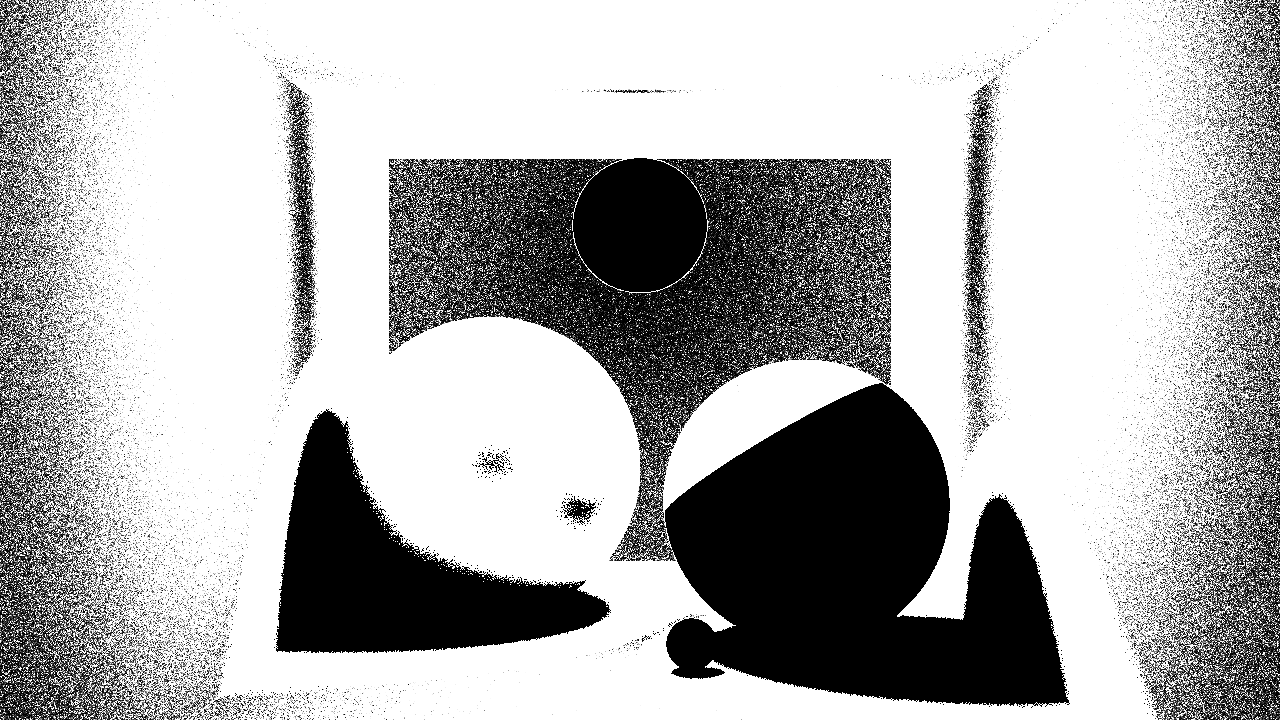
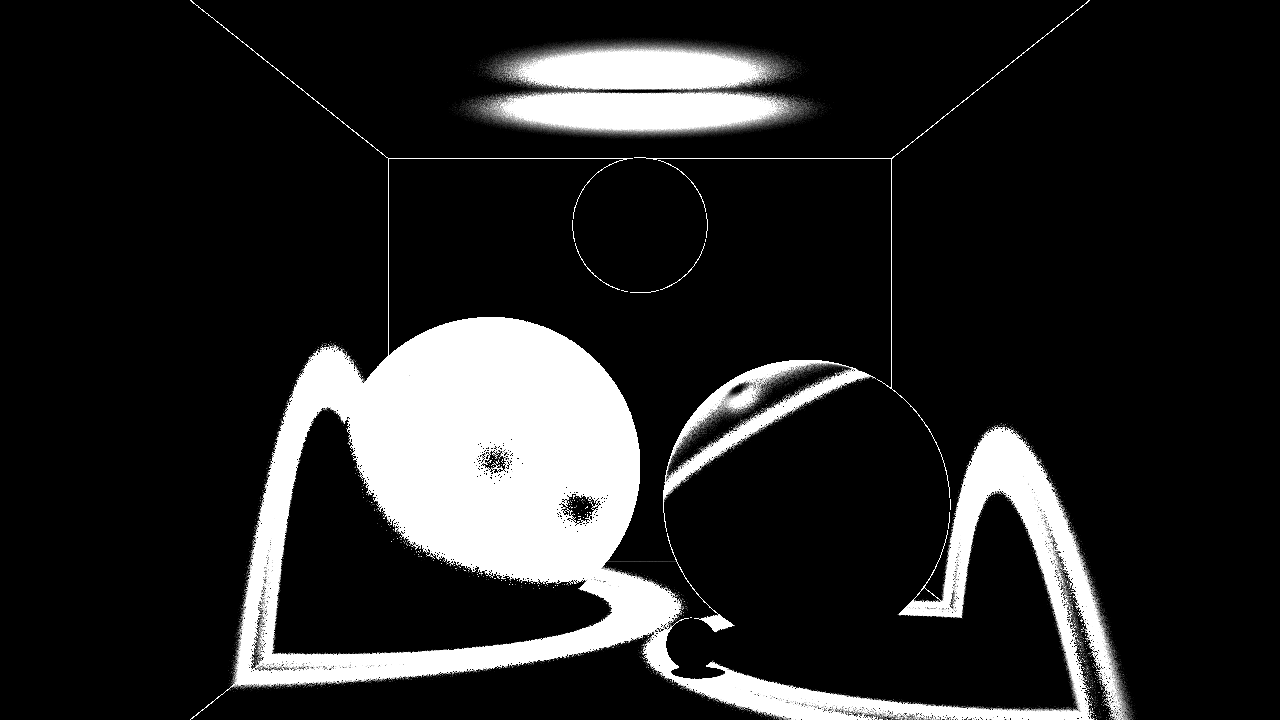
Added attenuation

diff --git a/src/lights.h b/src/lights.h
@@ -66,6 +66,7 @@ public:
 	Color Illuminate( ShadeInfo const &sInfo, Vec3f &dir ) const override 
     { 
         Vec3f d{ position - sInfo.P() };
+        const float distSquared{ d.LengthSquared() };
         dir = d.GetNormalized();
 
         Vec3f u;
@@ -97,10 +98,10 @@ public:
                 ++numHits;
 
             if (i + 1 == minNumSamples && (numHits == 0 || numHits == minNumSamples))
-                return intensity * static_cast<float>(numHits) / minNumSamples;
+                return (intensity * static_cast<float>(numHits) / minNumSamples) / distSquared;
         }
 
-        return intensity * static_cast<float>(numHits) / maxNumSamples;
+        return (intensity * static_cast<float>(numHits) / maxNumSamples) / (distSquared * attenuation);
     }
 
 	Color Radiance  ( ShadeInfo const &sInfo ) const override { return intensity / (Pi<float>()*size*size); }

diff --git a/src/materials.cpp b/src/materials.cpp
@@ -22,7 +22,11 @@ Color MtlBlinn::Shade(ShadeInfo const &shadeInfo) const
     {
         const Light* const light{ shadeInfo.GetLight(i) };
         Vec3f lightDir;
-        const Color lightIntensity{ light->Illuminate(shadeInfo, lightDir) };
+        Color lightIntensity{ light->Illuminate(shadeInfo, lightDir) };
+        if (light->IsRenderable())
+        {
+
+        }
 
         if (light->IsAmbient())
         {
